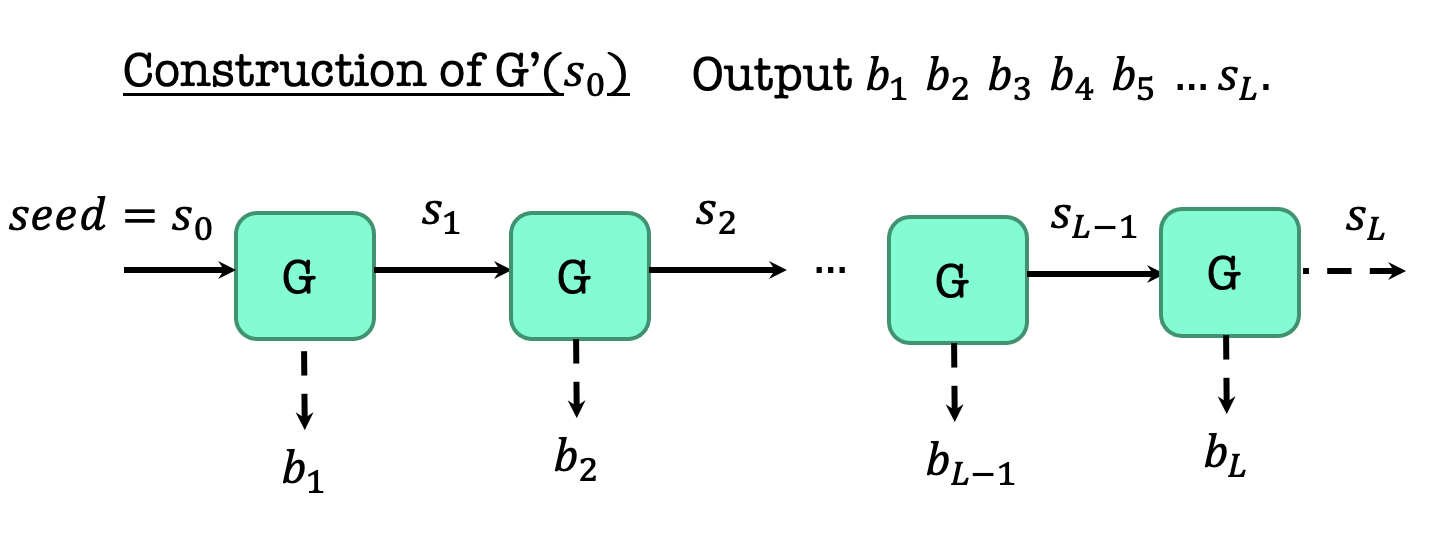
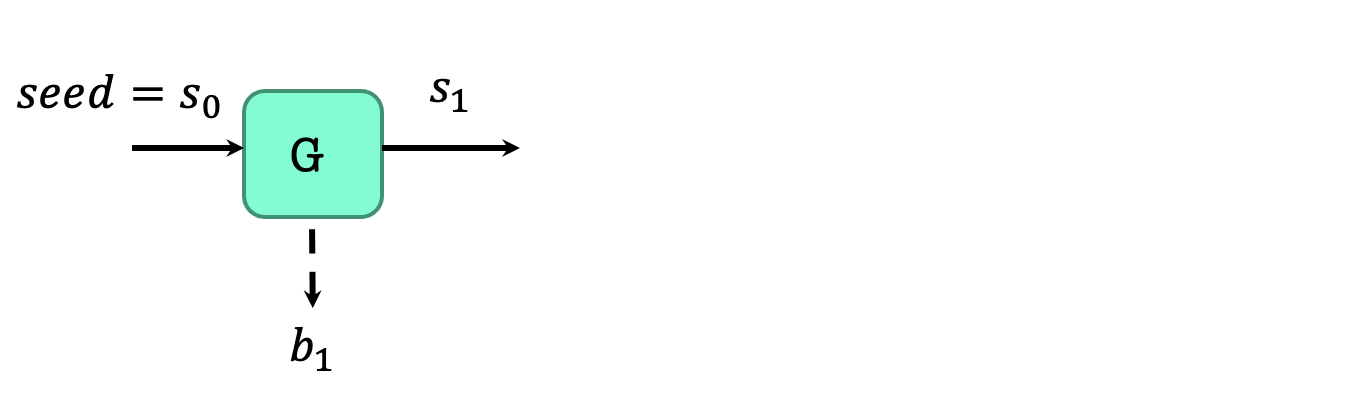
lecture3 last

diff --git a/backgrounds/MIT 6.875/lecture_3.md b/backgrounds/MIT 6.875/lecture_3.md
@@ -30,7 +30,8 @@ For today and next later, go deeper using PRG to encrypt better and better. <br>
 ### Today
 Two things today. 
 1. PRG length extension 
-2. Pseudorandom Functions 
+2. Pseudorandom Functions <br>
+
 Really important to know new proof technique : Hybrid Arguments <br>
 
 
@@ -40,7 +41,7 @@ Really important to know new proof technique : Hybrid Arguments <br>
 Last time, we looked at the def 1. So today, we will look at def 2. <br>
 <img src = "./lecture_3/figure3.png" width = "500"> <br>
 
-For every ith bit, the guy cannot predict the ith bit given the first i-1 bits, the guy cannot predict it better than half. <br>
+For every ith bit, the guy cannot predict the ith bit when given the first i-1 bits, the guy cannot predict it better than half. <br>
 
 <b>Def 1 and Def 2 are Equivalent</b> <br>
 
@@ -51,35 +52,64 @@ A PRG G passes all (poly-time) statistical tests if and only if it passes (poly-
 If you are interested in why indinstinguishability = NBU, watch the video. <br>
 
 #### Our Predictor P
-The idea : The predictor is given the first i-1 pseudorandom bits (call it y1y2, ... yi-1) and needs to guess the i-th bit. <br>
+The idea : The predictor is given the first i-1 pseudorandom bits (call it $y_{1} \, y_{2}, ... y_{i-1}$) and needs to guess the i-th bit. <br>
 <img src = "./lecture_3/figure4.png" width = "500"> <br>
 
 #### Analysis of the predictor P
 
-$Pr[P(y1, ..., yi-1)=yi]>=1/2+1/p(n)$ <br>
-We want the probability that P given y1 up to yi-1 predicts yi, and want this bigger than half + poly. <br>
-$Pr[P(y1, ..., y-1)=yi] \; = \; Pr1[D(y1,..yi-1 \, b \, ui+1, ... um) = 1 \, \and b=yi]+Pr2[D(y1,..yi-1 \, b \, ui+1, ... um) = 0 \, \and b\ne yi], where \; b \; is \; random \; bit$ <br>
+$Pr[P(y_{1}, ..., y_{i-1})=y_{i}]>=1/2+1/p(n)$ <br>
+We want the probability that P given y_{1} up to y_{i-1} predicts y_{i}, and want this bigger than half + poly. <br>
+$Pr[P(y_{1}, ..., y_{i-1})=y_{i}] \; = \; Pr1[D(y_{1},..y_{i-1} \, b \, u_{i+1}, ... u_{m}) = 1 \, AND \; b=y_{i}]+Pr2[D(y_{1},..y_{i-1} \, b \, u_{i+1}, ... u_{m}) = 0 \, AND \; b\ne y_{i}], where \; b \; is \; random \; bit$ <br>
 
 Pr1 means that b, the bit that I fed him is the right bit and the guys say 1, then I will put b <br>
 Pr2 means that b, the bit that I fed him is the wrong bit and the guys say 0, then I will take the b and flip it. <br>
   
-$Pr[P(y1, ..., y-1)=yi] \; = \; Pr[D(y1,..yi-1 \, b \, ui+1, ... um) = 1 \, |b=yi]*Pr[b=yi]+Pr[D(y1,..yi-1 \, b \, ui+1, ... um) = 0 \, |b\ne yi]*Pr[b\neyi]$ <br>
-$Pr[b=yi] = 1/2, Pr[b \ne yi]= 1/2$ , therefore <br>
-$= 1/2(Pr[D(y1,..yi-1 \, b \, ui+1, ... um) = 1 \, |b=yi]+Pr[D(y1,..yi-1 \, b \, ui+1, ... um) = 0 \, |b\ne yi])$ <br>
+$Pr[P(y_{1}, ..., y_{i-1})=y_{i}] \; = \; Pr[D(y_{1},..y_{i-1} \, b \, u_{i+1}, ... u_{m}) = 1 \, |b=y_{i}]*Pr[b=y_{i}]+Pr[D(y_{1},..y_{i-1} \, b \, u_{i+1}, ... u_{m}) = 0 \, |b\ne y_{i}]*Pr[b \ne y_{i}]$ <br>
+$Pr[b=y_{i}] = 1/2, Pr[b \ne y_{i}]= 1/2$ , therefore <br>
+$= 1/2(Pr[D(y_{1},..y_{i-1} \, b \, u_{i+1}, ... u_{m}) = 1 \, |b=y_{i}]+Pr[D(y_{1},..y_{i-1} \, b \, u_{i+1}, ... u_{m}) = 0 \, |b\ne y_{i}])$ <br>
 Like this, it follows the below equation. <br>
 <img src = "./lecture_3/figure5.png" width = "500"> <br>
 
 ### Length extension : One bit to Many bits 
 
-Let G: 〖{0,1}〗^𝑛  →〖{0,1}〗^(𝑛+1) be a pseudorandom generator. <br>
+Let $G: \left\{0,1\right\}^𝑛 →\left\{0,1\right\}^{𝑛+1}$ be a pseudorandom generator. <br>
 Goal: use G to generate poly many pseudorandom bits. <br> 
 <img src = "./lecture_3/figure6.png" width = "500"> <br>
-First, we generate n+1 bit, which is y1. b1 is one bit, and s1 is last n bits. 
+First, we generate $n+1$ bit, which is $y_{1}$. $b_{1}$ is one bit, and $s_{1}$ is last $n$ bits. <br>
 <img src = "./lecture_3/figure7.png" width = "500"> <br>
-This is called a <b>stream cipher</b>. You can stretch n bits to any polynomial bit. <br>
+You output the one bit and keep the last n bits. And then apply the PRG again. If you keep doing this process, you can get the figure below. 
 <img src = "./lecture_3/figure8.png" width = "500"> <br>
+Like this, you can get the any length that you want. Output is the concatenation of this. 
+This is called a <b>stream cipher</b>. You can stretch n bits to any polynomial bit. <br>
 
+#### Stateful Encryption of Many Messages. 
+<img src = "./lecture_3/figure9.png" width = "500"> <br>
+Alice wants to send 1-bit message m, so she used PRG to get b1 and used it for one-time pad. <br>
+<img src = "./lecture_3/figure10.png" width = "500"> <br>
+Now, their current state are s1. We do not want to use b1 again, because we do not want to use one-time pad again. <br>
+<img src = "./lecture_3/figure11.png" width = "500"> <br>
+Let's assume that Alice wants to send 3-bit message, so she runs the 3 steps.<br> 
+<img src = "./lecture_3/figure12.png" width = "500"> <br>
+So when we encrypt many messages, then Alice and Bob need to keep states. <br>
+<img src = "./lecture_3/figure13.png" width = "500"> <br>
+There are some drawbacks of using stateful encryption. Can we make it to be stateless? <br>
+<img src = "./lecture_3/figure14.png" width = "500"> <br>
+Use the PRG for huge polynomial times and write down all of this. And pick random index and use corresponding bit for one-time pad. 
+<img src = "./lecture_3/figure15.png" width = "500"> <br>
+<img src = "./lecture_3/figure16.png" width = "500"> <br>
+Use the PRG for very huge length.   
+<img src = "./lecture_3/figure17.png" width = "500"> <br>
+We can get some points of aforementioned idea. <br>
+<img src = "./lecture_3/figure18.png" width = "500"> <br>
 
+### Pseudorandom Functions
+<img src = "./lecture_3/figure19.png" width = "500"> <br>
 
+<img src = "./lecture_3/figure20.png" width = "500"> <br>
+We want these two functions to be indistinguishable. <br>
 
+<img src = "./lecture_3/figure21.png" width = "500"> <br>
 
+<img src = "./lecture_3/figure22.png" width = "500"> <br>
+Comparing with before, encryption scheme is changed. One-time pad and all the other encryption schemes that we used were deterministic. They had the key and the process was deterministic. But this encryption now is randomized encryption. <br>
+  
